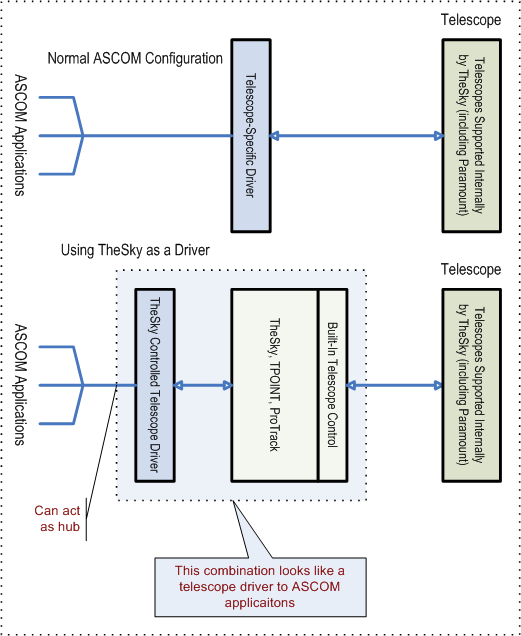
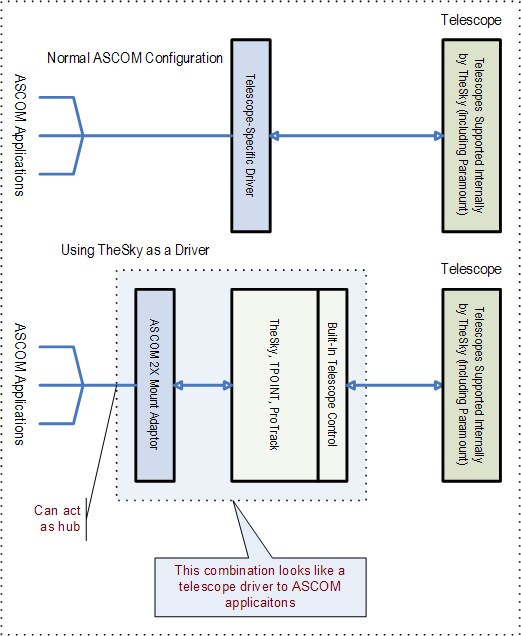
For new Bisque ASCOM 2X Mount Adaptor

diff --git a/trunk/ascom-standards.org/FAQs/TheSky.htm b/trunk/ascom-standards.org/FAQs/TheSky.htm
@@ -60,26 +60,25 @@
 	<!-- #BeginEditable "MainContent" -->
 	<div class="article">
 		<h3>Working With TheSky X&#8482; and TheSky 6&#8482;</h3>
-		<p>Since TheSky X and TheSky 6 are themselves not 100% compatible with the ASCOM environment, we've provided some adapter components to make them fit in. </p>
-		<p class="note">Please note: As of November 2014, Software Bisque has  completed a project to include &quot;inbound&quot; ASCOM support in TheSky X, making the separate &quot;TheSky Controlled Telescope&quot; driver obsolete. Look for this feature in an upcoming release of TheSky X. When you have this new version installed, switch your client software to use the new Telescope type and you can then uninstall this driver. The information here will be updated. At that time TheSky X will be 100% ASCOM compatible. </p>
+		<p>Software Bisque provides 100% ASCOM Compatibility for TheSky X.  TheSky 6 is not itself  100% compatible with the ASCOM environment, so we've provided some adapter components to make it fit in. </p>
+		<p class="note">Please note: As of December 2014, Software Bisque has  completed a project to support &quot;inbound&quot; ASCOM access for TheSky X by releasing a new and expanded driver to replace TheSky Controlled Telescope. This new driver, the <a href="../Downloads/ScopeDrivers.htm#Bisque2x">ASCOM 2X Mount Adaptor</a> is now available for download in the Telescope driver section (and via the preceding link). Together with the &quot;outbound&quot; ASCOM support built into TheSky X, this makes it 100% ASCOM compatible.</p>
 		<p class="note">Please note: Software Bisque's TheSky X includes built-in support for controlling devices through their ASCOM drivers. The description of the separate plug-ins that was here has been removed, as Software Bisque now provides access from TheSky X to all ASCOM devices. Please upgrade your copy of TheSky X to the latest version.</p>
 		<p>There are three different ways that TheSky can fit into the ASCOM environment:</p>
 		<ol>
 			<li>Both TheSky X and TheSky 6 can look like an ASCOM compatible telescope. This is mainly useful when the telescope is a Paramount, which requires TheSky (X or 6) as part of its control system. </li>
-			<li>TheSky 6 can bypass its internal telescope control logic and instead use an ASCOM driver for the telescope/mount.</li>
 			<li>TheSky X can use ASCOM based devices in addition to those for which it has internal interface logic. This requires no additional action or explanation.</li>
+			<li>TheSky 6 can bypass its internal telescope control logic and instead use an ASCOM driver for the telescope/mount.</li>
 		</ol>
 		<h4><a name="skydrvr" id="skydrvr"></a>1. TheSky Using its Internal Telescope Logic (e.g. Paramount) for an ASCOM speaking astronomy program</h4>
-		<p>In this case, ASCOM astronomy software selects <span class="underline">TheSky Controlled Telescope</span> as its telescope type (this adapter driver is <a href="../Downloads/ScopeDrivers.htm">separately downloadable</a>). This makes TheSky (X and 6), TPOINT, ProTrack, and its internal telescope control logic look like any other ASCOM telescope driver. See the text below the diagram for details. </p>
+		<p>In this case, ASCOM astronomy software selects <span class="underline">ASCOM 2X Mount Adaptor</span> as its telescope type (this adapter driver is <a href="../Downloads/ScopeDrivers.htm#Bisque2x">separately downloadable</a>). This makes TheSky (X and 6), TPOINT, ProTrack, and its internal telescope control logic look like any other ASCOM telescope driver. See the text below the diagram for details. </p>
 		<p align="center"><img src="../Images/TheSkyDriver.png" alt="Diagram" width="521" height="636" /></p>
 			<p>This requires 
 				TheSky X or TheSky 6 Professional (TheSky 5 Level IV is supported for backward compatibility). When using one of the many programs that control 
-				telescopes via ASCOM drivers, you need to have downloaded and installed the <a href="../Downloads/ScopeDrivers.htm">TheSky-Telescope driver</a> and select  &quot;TheSky Controlled 
-				Telescope&quot; as the telescope type. Of course, within TheSky itself, 
+				telescopes via ASCOM drivers, you need to have downloaded and installed the <a href="../Downloads/ScopeDrivers.htm#Bisque2x">ASCOM 2x Mount Adaptor</a> and select it as the telescope type. Of course, within TheSky itself, 
 				select your real telescope type (e.g. Paramount). This configuration 
 				(using TheSky as a telescope controller) is not limited to the 
 				Paramount; it can be used with any telescope type that can be controlled 
-				from within TheSky (including ASCOM mounts as of March 2013 with TheSky X).<h5>One Time Setup: TheSky X Professional</h5>
+		from within TheSky (including ASCOM mounts as of March 2013 with TheSky X).<h5>One Time Setup: TheSky X Professional</h5>
 				<p>All that's needed is to activate TheSky X scripting support, normally only required on Vista or Windows 7:</p>
 				<ol>
 					<li>Locate TheSkyX.exe (normally in Program Files or Program Files (x86), Software Bisque, TheSky X Professional). </li>

diff --git a/trunk/ascom-standards.org/Downloads/ScopeDrivers.htm b/trunk/ascom-standards.org/Downloads/ScopeDrivers.htm
@@ -168,11 +168,11 @@
 
 		<div class="download">
 			<!--<h5>TheSky Controlled Telescope (Paramount, etc., 5.2.12) for TheSky X and TheSky 5/6<a href="http://download.ascom-standards.org/drivers/TheSkyTelescope(5.2.12)Setup.exe"><img alt="Download" src="../Images/Button2.jpg" width="149" height="44" align="right" border="0" /></a></h5>-->
-			<h5>Ascom 2X Mount Adaptor (Paramount, etc., 6.0) for TheSky X and TheSky 5/6 (external link)</h5>
+			<h5><a name="Bisque2x" id="Bisque2x"></a>Ascom 2X Mount Adaptor (Paramount, etc., 6.0) for TheSky X and TheSky 5/6 (external link)</h5>
 
 			<a href="http://www.bisque.com/sc/media/p/106120.aspx"><img alt="Download" src="../Images/VisitButton.jpg" width="149" height="44" align="right" border="0" /></a>
 			<p>This is now supplied by Software Bisque and is available from the Downloads section of the Software Bisque site, the file is called Ascom 2X Mount Adaptor Setup.exe</p>
-<p>Installs  a driver that connects to Software Bisque's  <a href="http://www.bisque.com/" target="_blank">TheSky X/6/5 Astronomy Software</a> and makes it look like a standard ASCOM telescope. This allows ASCOM-based astronomy software to use TheSky (including TPOINT and ProTrack) as a smart telescope controller. For more information see <a href="../FAQs/TheSky.htm" target="_blank">Working with TheSky</a> (section 1). It is <span class="underline">required for the Paramount</span> mounts, and may be used with TheSky controlling any other of its supported telescope types, or via the <a href="Plugins.htm" target="_blank">ASCOM plugin</a>, using ASCOM telescope drivers. This driver provides <a href="../Standards/Index.htm" target="_parent">Telescope V3</a> support, 100% <a href="DevTools.htm" target="_blank">conformance</a>, and compatibility with TheSky X (10.2.0 or later). It should also work with TheSky6 and TheSky5 but not all functionality will be present.</p>
+<p>Installs  a driver that connects to Software Bisque's  <a href="http://www.bisque.com/" target="_blank">TheSky X/6/5 Astronomy Software</a> and makes it look like a standard ASCOM telescope. This allows ASCOM-based astronomy software to use TheSky (including TPOINT and ProTrack) as a smart telescope controller. For more information see <a href="../FAQs/TheSky.htm" target="_blank">Working with TheSky</a> (section 1). It is <span class="underline">required for the Paramount</span> mounts, and may be used with TheSky controlling any other of its supported telescope types, or via its built-in outbound ASCOM support<a href="Plugins.htm" target="_blank"></a>, and then using ASCOM telescope drivers. This driver provides <a href="../Standards/Index.htm" target="_parent">Telescope V3</a> support, 100% <a href="DevTools.htm" target="_blank">conformance</a>, and compatibility with TheSky X (10.2.0 or later). It should also work with TheSky6 and TheSky5 but not all functionality will be present.</p>
 		</div>
 
 		<div class="download">
